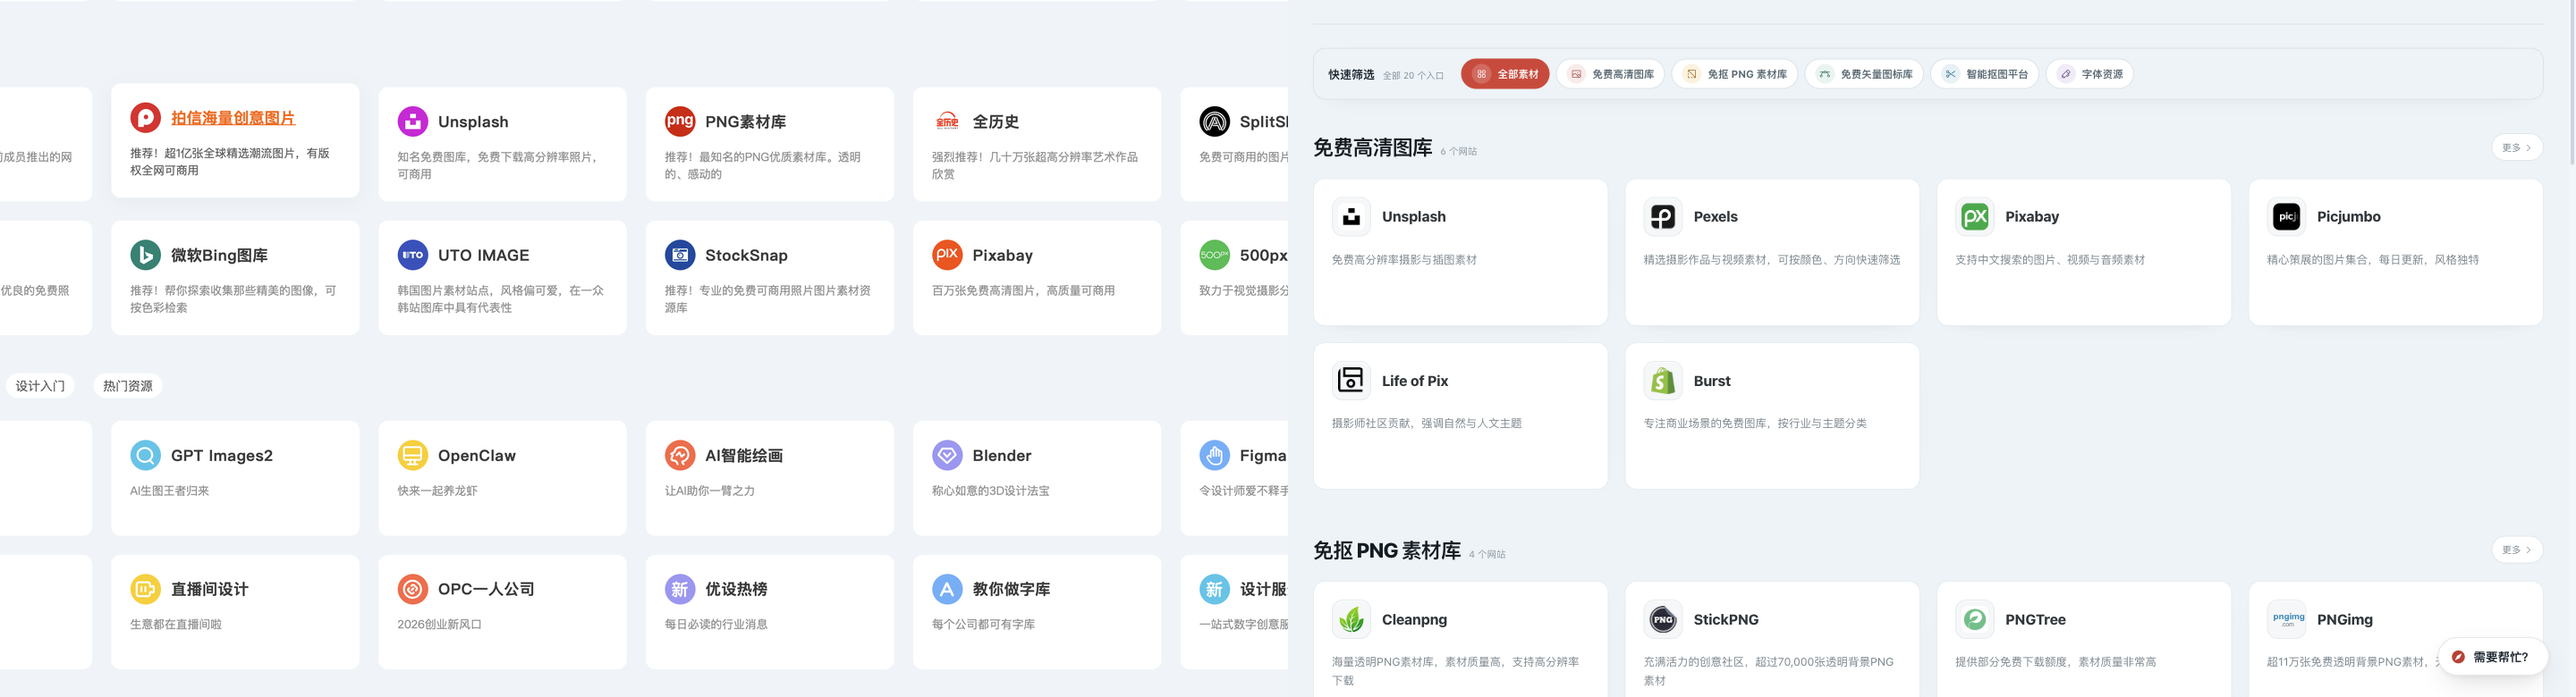
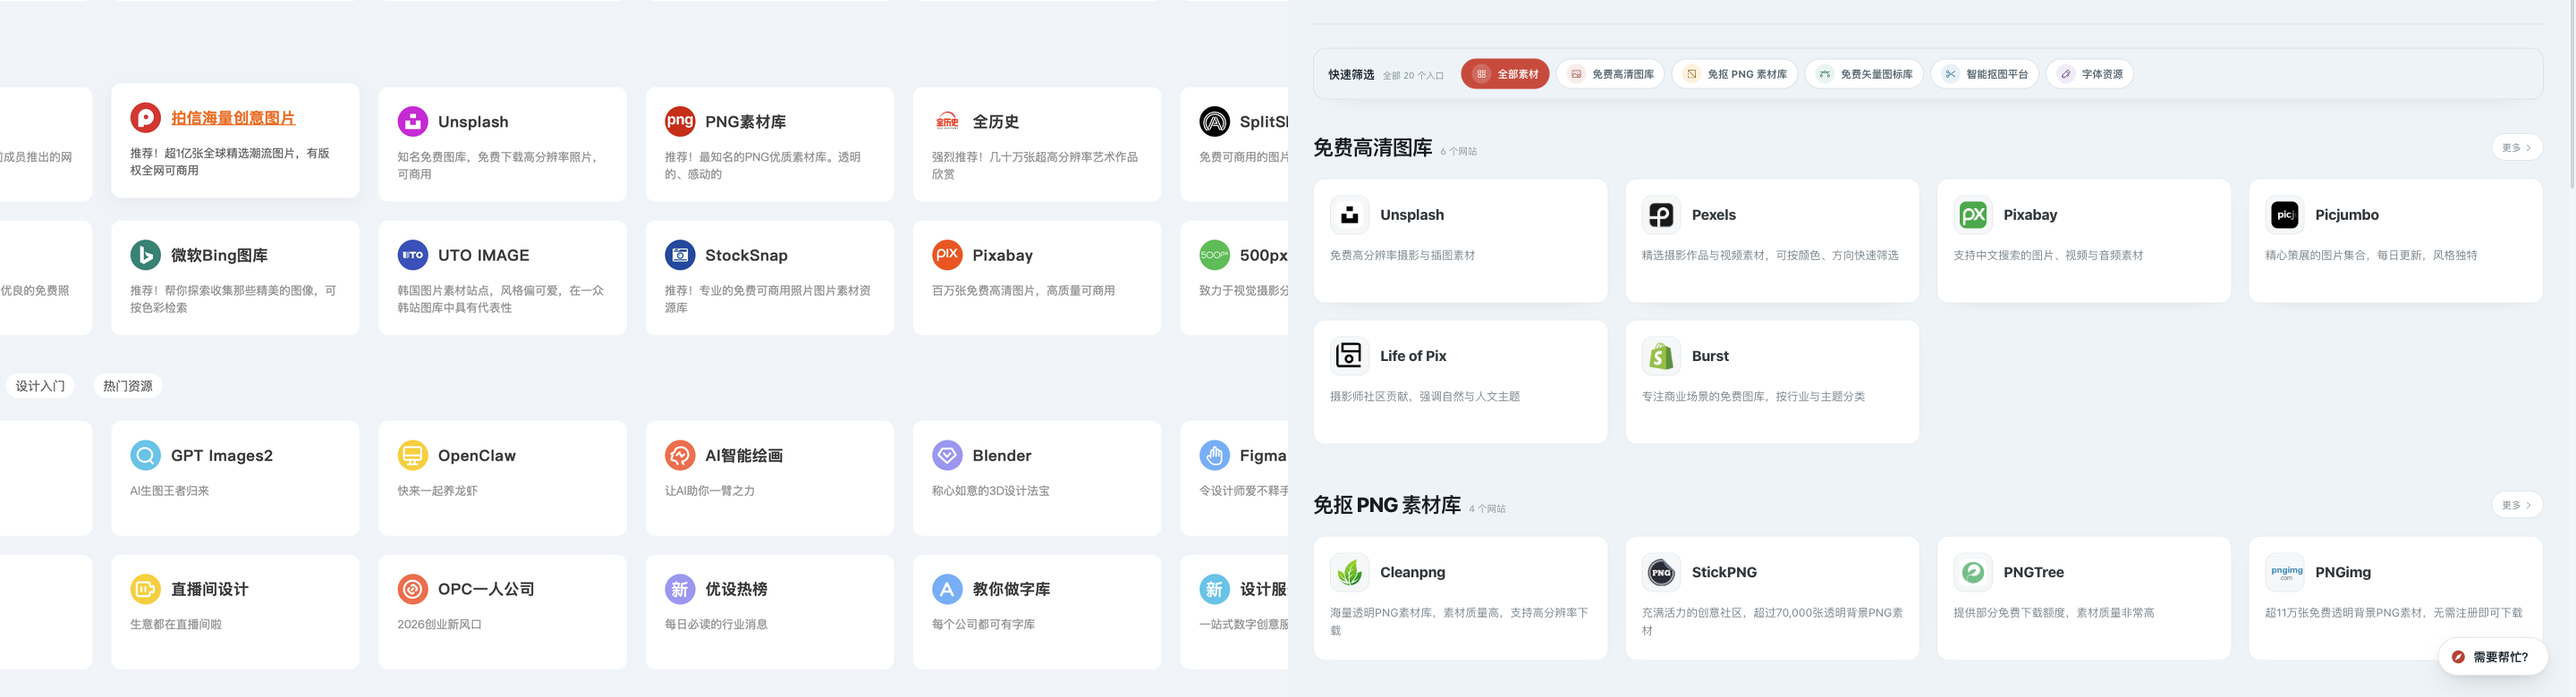
Compact resource cards around content

diff --git a/css/style.css b/css/style.css
@@ -3051,9 +3051,9 @@ textarea:focus-visible,
 }
 .resource-entry { position: relative; min-width: 0; }
 .resource-card {
-    aspect-ratio: 2 / 1;
-    min-height: 0;
-    padding: 20px;
+    aspect-ratio: auto;
+    min-height: 140px;
+    padding: 18px;
     border: 1px solid rgba(221,229,234,.7);
     border-radius: 13px;
     background: #fff;
@@ -3061,7 +3061,7 @@ textarea:focus-visible,
     transition: border-color .16s, box-shadow .16s, transform .16s;
 }
 .resource-card:hover { border-color: #c5d2d8; box-shadow: 0 14px 28px -24px rgba(21,37,47,.48); transform: translateY(-2px); }
-.resource-card-top { justify-content: flex-start; align-items: center; gap: 12px; width: 100%; margin-bottom: 15px; text-align: left; }
+.resource-card-top { justify-content: flex-start; align-items: center; gap: 12px; width: 100%; margin-bottom: 12px; text-align: left; }
 .resource-logo-frame {
     width: 44px;
     height: 44px;
@@ -3091,6 +3091,7 @@ textarea:focus-visible,
 .resource-card-name { flex: 1 1 auto; min-width: 0; text-align: left; }
 .resource-card-name h3 { margin: 0; color: #30363a; font-size: 16px; font-weight: 760; line-height: 1.3; }
 .resource-card > p {
+    flex: 0 0 auto;
     display: -webkit-box;
     min-height: 40px;
     margin: 0;
@@ -3125,5 +3126,5 @@ textarea:focus-visible,
     .resource-content { gap: 38px; }
     .resource-section-title h2 { font-size: 21px; }
     .resource-grid { grid-template-columns: 1fr; gap: 12px; }
-    .resource-card { min-height: 0; padding: 17px; }
+    .resource-card { min-height: 140px; padding: 17px; }
 }

diff --git a/resources.html b/resources.html
@@ -25,7 +25,7 @@
     <meta name="mobile-web-app-capable" content="yes">
     <meta name="apple-mobile-web-app-status-bar-style" content="black-translucent">
     <meta name="apple-mobile-web-app-title" content="AI 教研">
-    <link rel="stylesheet" href="css/style.css?v=20260925-resource-cards-2x1">
+    <link rel="stylesheet" href="css/style.css?v=20260925-resource-cards-compact">
     <link rel="stylesheet" href="css/pwa.css?v=20260924-local-email-direct">
     <style>.resource-hero h1 .site-copy-accent{font-style:normal;color:var(--brand)}</style>
 </head>

diff --git a/design-qa.md b/design-qa.md
@@ -29,7 +29,7 @@
 - 没有残留的 P0、P1 或 P2 问题。
 - 字体与排版：卡片只保留 Logo、名称和一句说明，长描述限制为两行。
 - 间距与布局：1440 px 显示四列、1000 px 显示三列、820 px 显示两列、390 px 显示一列。
-- 卡片比例：四种响应式视口下的实测宽高比均为 2.000。
+- 卡片高度：取消固定比例，使用 140 px 基础高度；1440 px 四列时约为 2.36:1，内容较长时可自然增高。
 - 颜色与视觉令牌：页面底色、白色卡片和橙红强调色与参考图同类；边框与阴影保持克制。
 - 图片质量：当前实际加载的 20 个网站均显示真实 Logo，失败回退数量为 0。
 - Logo 一致性：全部 Logo 使用 44×44 px 圆角方形底板、统一内边距与 30×30 px 图形区域；五个横版字标替换为网站官方 favicon。
@@ -60,6 +60,12 @@
 - 删除重复出现的右上角跳转箭头，保留整张卡片的链接、悬停与键盘聚焦反馈。
 - 四列、三列、两列和手机单列状态均实测为 2.000，重新载入手机页面后无横向溢出。
 
+### Iteration 5 — passed
+
+- 根据实际内容量取消固定 2:1，改为 140 px 基础高度并允许内容自然撑开。
+- 卡片内边距缩小到 18 px，标题区与简介的距离缩小到 12 px，简介不再占满剩余空间。
+- 桌面与手机端均无内容溢出或页面横向溢出，底部空白明显减少。
+
 ## Primary interactions and console check
 
 - 搜索输入可实时筛选；无结果状态正确出现，清除搜索后恢复全部资源。
@@ -78,7 +84,7 @@
 - [x] 高清真实 Logo 与失败回退检查
 - [x] 统一 Logo 底板、内边距与显示尺寸
 - [x] 左对齐卡片与精简信息层级
-- [x] 2:1 卡片比例与无箭头交互检查
+- [x] 内容驱动的紧凑卡片高度与无箭头交互检查
 - [x] 同尺寸全页与卡片区域视觉对照
 
 final result: passed
